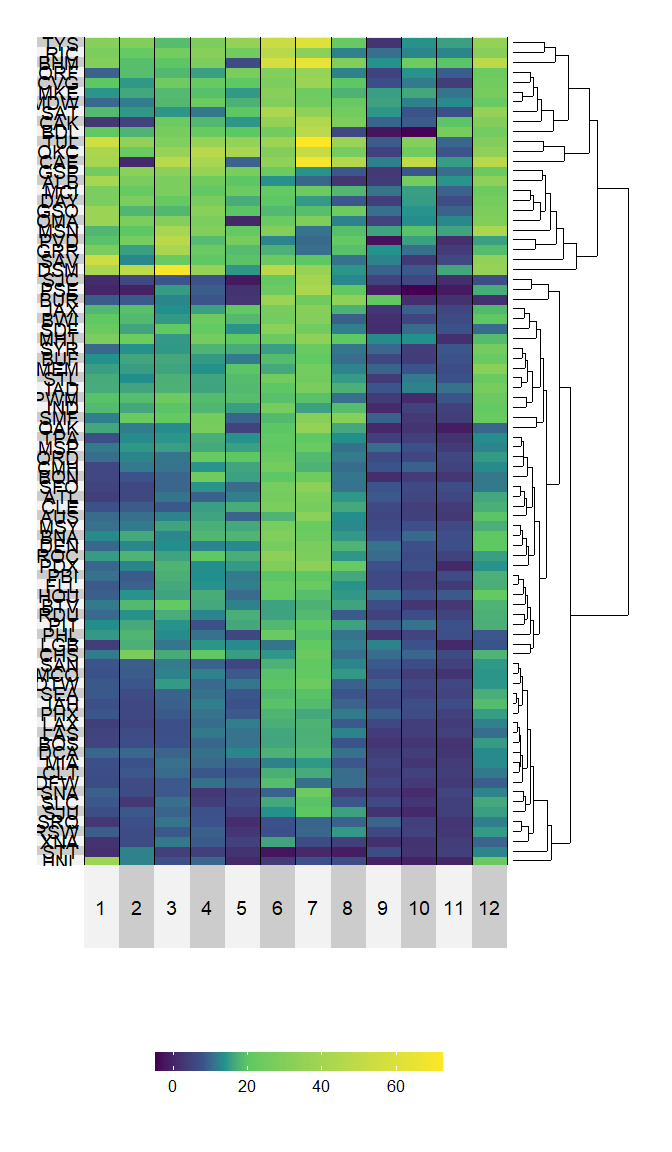
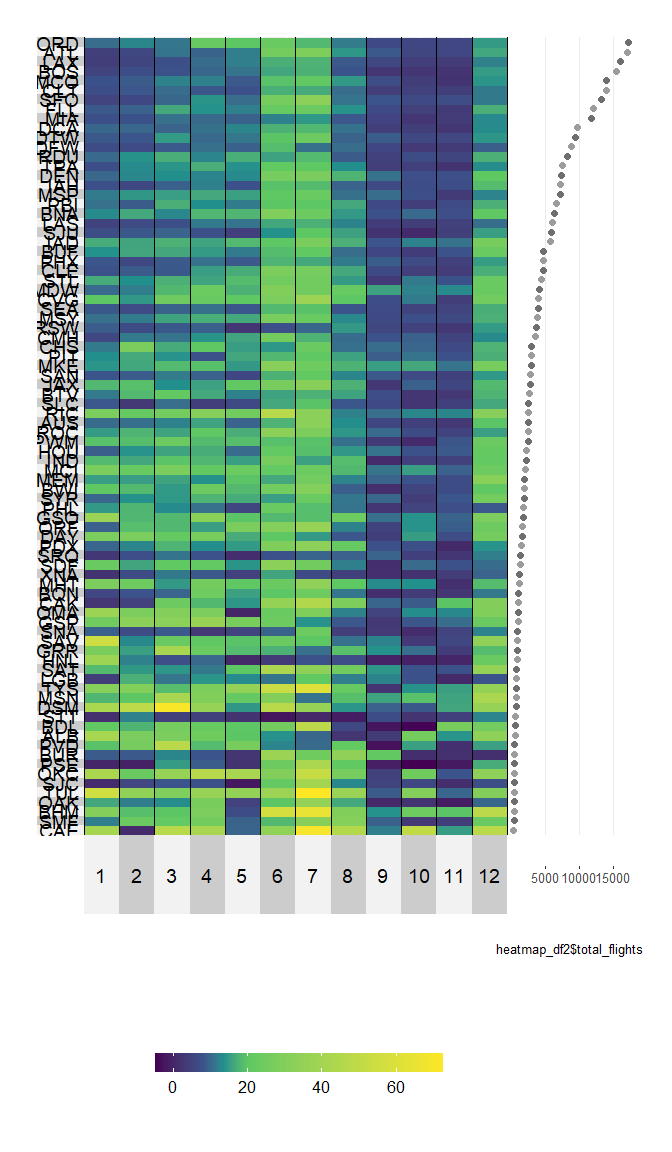
update week 16 superheat

diff --git a/r4ds_week16.md b/r4ds_week16.md
@@ -162,8 +162,25 @@ pheatmap::pheatmap(heatmap_matrix)
 Or {superheat}:
 
 ``` r
+# add total flight count to heatmap_df for side plot
+
+heatmap_df2 <- nycflights13::flights %>% 
+  group_by(dest) %>% 
+  summarize(total_flights = n()) %>% 
+  inner_join(heatmap_df) %>% 
+  ungroup() %>% 
+  distinct(dest, total_flights)
+```
+
+    ## Joining, by = "dest"
+
+``` r
+# heatmap with rows ordered by total flight count
+# side plot shows total flight count
+
 superheat::superheat(heatmap_matrix,
-          row.dendrogram = TRUE)
+          order.rows = order(heatmap_df2$total_flights),
+          yr = heatmap_df2$total_flights)
 ```
 
 ![](r4ds_week16_files/figure-gfm/unnamed-chunk-8-1.png)<!-- -->
